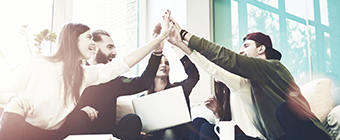
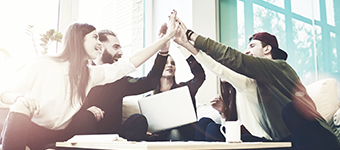
fix

diff --git a/src/blocks/eleventh-block.html b/src/blocks/eleventh-block.html
@@ -13,7 +13,12 @@
                 </p>
             </div>
             <picture>
+                <source media="(min-width: 1440px)" srcset="img/eleventh-block/team_1440.png">
+                <source media="(min-width: 1200px)" srcset="img/eleventh-block/team_1200.png">
+                <source media="(min-width: 960px)" srcset="img/eleventh-block/team_960.png">
+                <source media="(min-width: 768px)" srcset="img/eleventh-block/team_768.png">
                 <source media="(min-width: 480px)" srcset="img/eleventh-block/team_480.png">
+                <source media="(min-width: 320px)" srcset="img/eleventh-block/team_320.png">
                 <img src="img/eleventh-block/team_320.png" alt="team" class="eleventh-block__img">
             </picture>
         </div>
@@ -24,7 +29,7 @@
     </div>
     <div class="eleventh-block__s-block">
         <ul class="eleventh-block__rewards-list">
-            <li class="eleventh-block__rewards-item eleventh-block__rewards-item--bg-reward">
+            <li class="eleventh-block__rewards-item eleventh-block__rewards-item--bg-f"> <!--eleventh-block__rewards-item_bg-reward-->
                 <p class="eleventh-block__info-text">
                     <span class="eleventh-block__dark-text">
                         [ Go for IT ]
@@ -39,7 +44,7 @@
                 </p>
                 </div>
             </li>
-            <li class="eleventh-block__rewards-item eleventh-block__rewards-item--decor">
+            <li class="eleventh-block__rewards-item eleventh-block__rewards-item--bg-s"><!--eleventh-block__rewards-item_decor-->
                 <p class="eleventh-block__info-text">
                     <span class="eleventh-block__dark-text">
                         [ Это признано IT-сообществом ]
@@ -54,7 +59,7 @@
                 </p>
                 </div>
             </li>
-            <li class="eleventh-block__rewards-item eleventh-block__rewards-item--decor eleventh-block__pt">
+            <li class="eleventh-block__rewards-item eleventh-block__rewards-item--bg-t eleventh-block__pt"><!--eleventh-block__rewards-item_decor-->
                 <div class="eleventh-block__container-text">
                     <h3 class="eleventh-block__s-block-title">
                     GoIt выиграла тендер про ООН Украины
@@ -64,7 +69,7 @@
                 </p>
                 </div>
             </li>
-            <li class="eleventh-block__rewards-item eleventh-block__rewards-item--decor eleventh-block__pt">
+            <li class="eleventh-block__rewards-item eleventh-block__rewards-item--bg-fh eleventh-block__pt"><!--eleventh-block__rewards-item_decor-->
                 <div class="eleventh-block__container-text">
                     <h3 class="eleventh-block__s-block-title">
                     GoIt выиграла тендер про ООН Украины

diff --git a/src/sass/blocks/eleventh-block/mobile_320.scss b/src/sass/blocks/eleventh-block/mobile_320.scss
@@ -54,6 +54,33 @@
 
 	&__rewards-item {
 		padding: 13px 50px;
+
+		&--bg-f {
+			background-image: url("../img/eleventh-block/bg-item.png");
+			background-repeat: no-repeat;
+			background-position: 85% 30%;
+		}
+
+		&--bg-s {
+			background-image: url("../img/eleventh-block/bg-item_2.png");
+			background-repeat: no-repeat;
+			background-position: 85% 30%;
+			background-size: 30px auto;
+		}
+
+		&--bg-t {
+			background-image: url("../img/eleventh-block/bg-item_3.png");
+			background-repeat: no-repeat;
+			background-position: 85% 30%;
+			background-size: 40px auto;
+		}
+
+		&--bg-fh {
+			background-image: url("../img/eleventh-block/bg-item_3.png");
+			background-repeat: no-repeat;
+			background-position: 85% 30%;
+			background-size: 40px auto;
+		}
 	}
 
 	&__s-block-title {
@@ -61,6 +88,7 @@
 		font-weight: 800;
 		text-transform: uppercase;
 		margin-bottom: 10px;
+		width: 125px;
 	}
 
 	&__info-text {

diff --git a/src/blocks/thirteenth-block.html b/src/blocks/thirteenth-block.html
@@ -9,10 +9,12 @@
     </div>
     <div class="thirteenth-block__container-img">
         <picture>
+            <source media="(min-width: 1440px)" srcset="img/thirteenth-block/img_1440.png">
+            <source media="(min-width: 1200px)" srcset="img/thirteenth-block/img_1200.png">
+            <source media="(min-width: 960px)" srcset="img/thirteenth-block/img_960.png">
             <source media="(min-width: 768px)" srcset="img/thirteenth-block/img_768.png">
             <source media="(min-width: 480px)" srcset="img/thirteenth-block/img_480.png">
             <source media="(min-width: 320px)" srcset="img/thirteenth-block/img_320.png">
-            <source media="(min-width: 960px)" srcset="img/thirteenth-block/img_960.png">
             <img src="img/thirteenth-block/img_480.png" alt="img" class="thirteenth-block__img">
         </picture>
     </div>

diff --git a/src/sass/blocks/eleventh-block/tablet_768.scss b/src/sass/blocks/eleventh-block/tablet_768.scss
@@ -62,11 +62,15 @@
     }
 
     &__container-text {
-      width: 75%;
+      width: 60%;
     }
 
     &__dark-text {
       font-size: 8.8px;
+    }
+
+    &__s-block-title {
+      width: 100%;
     }
   }
 }

diff --git a/src/sass/blocks/nineteen-block/mobile_320.scss b/src/sass/blocks/nineteen-block/mobile_320.scss
@@ -12,6 +12,7 @@
 		margin-bottom: 12px;
 		padding-left: 5px;
 		font-weight: 800;
+		text-transform: uppercase;
 	}
 
 	&__info-paragraph {

diff --git a/src/sass/blocks/seventh-block/mobile_320.scss b/src/sass/blocks/seventh-block/mobile_320.scss
@@ -45,6 +45,7 @@
 
 	&__s-block-title {
 		margin-bottom: 10px;
+		line-height: 1;
 		
 		&--w_f {
 			width: 85px;
